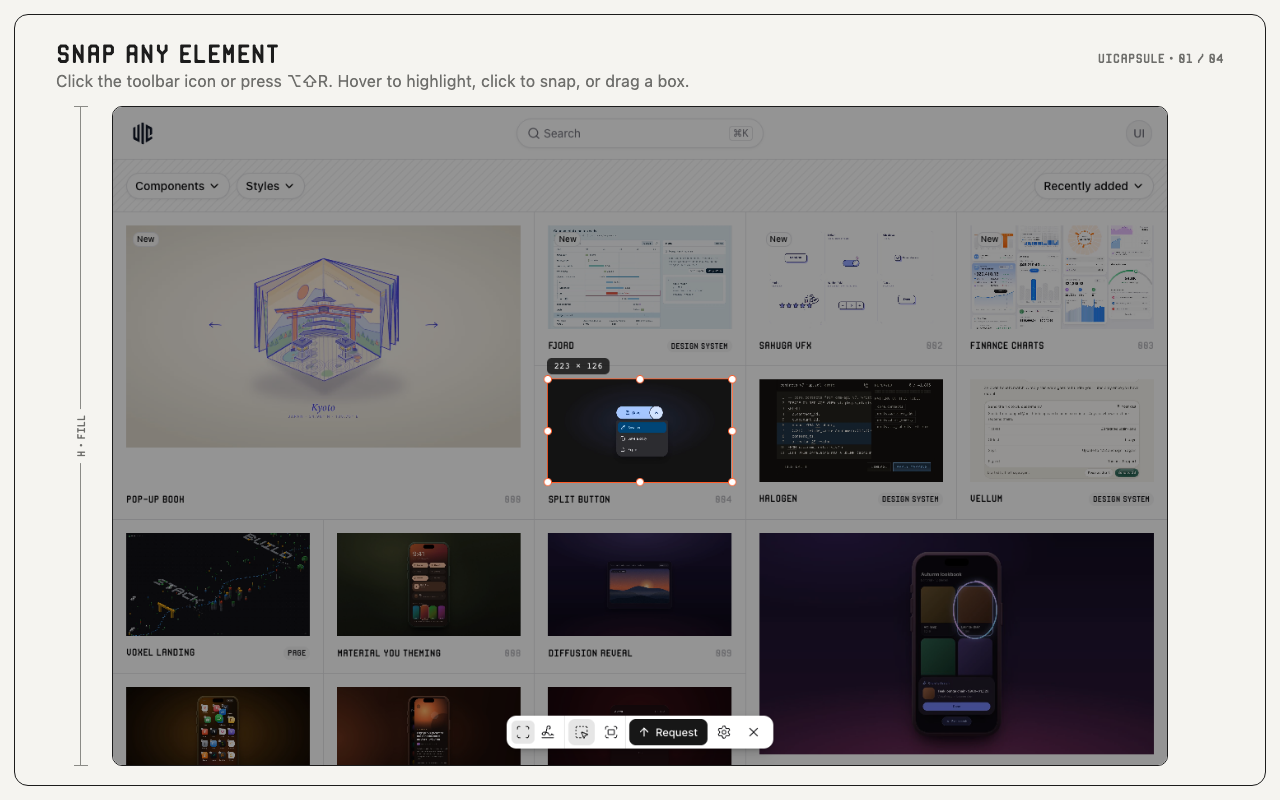
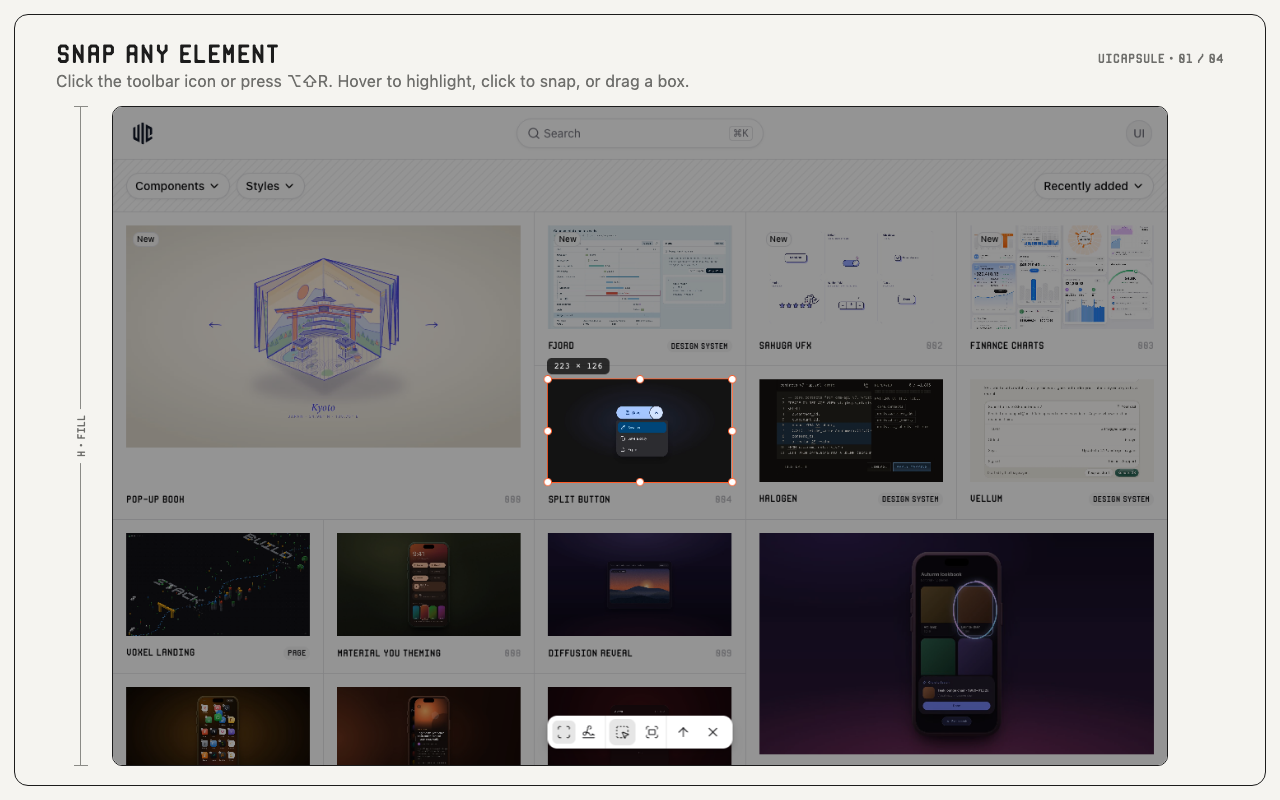
feat(extension): slimmer inspect bar
Drop Settings button and ⌘, shortcut (options page still via icon menu).
Request is an icon tool; remove BarAction. Store screenshots regenerated.

Changed region(s): [[0.375, 0.875, 0.625, 0.9375], [0.3125, 0.9062, 0.3438, 0.9375], [0.1562, 0.875, 0.1875, 0.9062]]

diff --git a/packages/inspector/src/styles.ts b/packages/inspector/src/styles.ts
@@ -73,7 +73,7 @@ export const inspectorCss = `
 .uic-tool svg { width: 18px; height: 18px; stroke-width: 1.5; }
 .uic-tool:hover { background: var(--uic-bar-hover); color: var(--uic-bar-fg-hover); }
 .uic-tool[aria-pressed="true"] { background: var(--uic-bar-pressed); color: var(--uic-bar-fg); }
-.uic-tool:focus-visible, .uic-switch-option:focus-visible, .uic-action:focus-visible { outline: 2px solid var(--uic-focus); outline-offset: -2px; }
+.uic-tool:focus-visible, .uic-switch-option:focus-visible { outline: 2px solid var(--uic-focus); outline-offset: -2px; }
 .uic-tool:disabled { opacity: 0.4; pointer-events: none; }
 
 .uic-switch { position: relative; display: flex; align-items: center; flex: none; gap: 2px; margin: 0 4px 0 0; padding: 2px; border: 0; border-radius: 8px; }
@@ -94,12 +94,8 @@ export const inspectorCss = `
 
 .uic-tip { position: absolute; bottom: calc(100% + 12px); left: 50%; translate: -50% 0; display: flex; align-items: center; gap: 8px; padding: 4px 4px 4px 10px; border-radius: 8px; background: #000; color: #fff; font-size: 12px; line-height: 20px; font-weight: 400; white-space: nowrap; opacity: 0; pointer-events: none; transition: opacity 150ms cubic-bezier(0.4, 0, 0.2, 1); }
 .uic-tip kbd { display: grid; place-items: center; min-width: 20px; height: 20px; padding: 0 5px; border-radius: 5px; background: rgb(255 255 255 / 0.18); color: rgb(255 255 255 / 0.8); font: inherit; font-size: 11px; }
-.uic-tool:hover .uic-tip, .uic-tool:focus-visible .uic-tip, .uic-switch-option:hover .uic-tip, .uic-switch-option:focus-visible .uic-tip, .uic-action:hover .uic-tip, .uic-action:focus-visible .uic-tip { opacity: 1; }
+.uic-tool:hover .uic-tip, .uic-tool:focus-visible .uic-tip, .uic-switch-option:hover .uic-tip, .uic-switch-option:focus-visible .uic-tip { opacity: 1; }
 
-.uic-bar .uic-action { position: relative; display: inline-flex; align-items: center; flex: none; gap: 6px; height: 32px; padding: 0 12px 0 10px; border-radius: 8px; background: var(--uic-bar-fg); color: var(--uic-bar-bg); font-size: 13px; font-weight: 500; line-height: 1; }
-.uic-bar .uic-action:hover { background: var(--uic-bar-fg-hover); }
-.uic-bar .uic-action:disabled { opacity: 0.55; pointer-events: none; }
-.uic-bar .uic-action svg { width: 16px; height: 16px; stroke-width: 2; }
 
 .uic-surface { position: absolute; inset: 0; overflow: hidden; pointer-events: none; user-select: none; touch-action: none; }
 .uic-surface[data-active] { pointer-events: auto; cursor: crosshair; }

diff --git a/apps/extension/src/lib/overlay/capture-bar.tsx b/apps/extension/src/lib/overlay/capture-bar.tsx
@@ -1,6 +1,5 @@
 import type { AnnotationTool } from "@repo/inspector/annotation-layer";
 import {
-  BarAction,
   BarDivider,
   InspectBar,
   ToolButton,
@@ -16,7 +15,6 @@ import {
   MoveUpRight,
   Pencil,
   Scan,
-  Settings,
   Signature,
   SquareDashedMousePointer,
   Type,
@@ -28,8 +26,6 @@ import { toolKey } from "./bar-keys";
 
 /** The bar's tools: one picks what to capture, the rest draw on top of it. */
 export type BarTool = "inspect" | AnnotationTool;
-
-const MAC = navigator.userAgent.includes("Mac");
 
 const ANNOTATE_TOOLS = [
   { icon: <MousePointer2 />, label: "Select", tool: "select" },
@@ -45,13 +41,12 @@ const GROUPS: SwitchOption<"annotate" | "capture">[] = [
 
 /**
  * The inspect bar the extension shows: a switch between the capture and annotate tools, that
- * group's tools, then Request, Settings and Close.
+ * group's tools, then Request and Close.
  */
 export const CaptureBar = ({
   onClose,
   onGroup,
   onRequest,
-  onSettings,
   onTool,
   onVisible,
   tool,
@@ -60,7 +55,6 @@ export const CaptureBar = ({
   onClose: () => void;
   onGroup: (group: "annotate" | "capture") => void;
   onRequest: () => void;
-  onSettings: () => void;
   onTool: (tool: BarTool) => void;
   onVisible: () => void;
   tool: BarTool;
@@ -125,21 +119,8 @@ export const CaptureBar = ({
         ]}
       />
       <BarDivider />
-      <ToolGroup label="Request and settings">
-        <BarAction
-          icon={<ArrowUp />}
-          shortcut="↵"
-          tip="File a component request"
-          onPress={onRequest}
-        >
-          Request
-        </BarAction>
-        <ToolButton
-          icon={<Settings />}
-          label="Settings"
-          shortcut={MAC ? "⌘," : "Ctrl+,"}
-          onPress={onSettings}
-        />
+      <ToolGroup label="Request">
+        <ToolButton icon={<ArrowUp />} label="Request" shortcut="↵" onPress={onRequest} />
         <ToolButton icon={<X />} label="Close" shortcut="Esc" onPress={onClose} />
       </ToolGroup>
     </InspectBar>

diff --git a/apps/extension/src/lib/overlay/app.tsx b/apps/extension/src/lib/overlay/app.tsx
@@ -104,10 +104,6 @@ const shotRect = (selection: Selection, marks: Element | null) => {
   return visiblePart(drawn ? unionRect(box, drawn) : box);
 };
 
-const openSettings = () => {
-  void browser.runtime.sendMessage({ type: "options" });
-};
-
 /**
  * The extension's overlay: the inspect bar over the page, then the request dialog over a capture
  * of the selection with its annotations, then a toast. Closing before filing keeps nothing.
@@ -271,11 +267,6 @@ export const OverlayApp = ({ onClose, start }: { onClose: () => void; start: Ove
         break;
       }
 
-      case "settings": {
-        openSettings();
-        break;
-      }
-
       case "visible": {
         setSelection({ kind: "visible" });
         chooseTool("inspect");
@@ -358,7 +349,6 @@ export const OverlayApp = ({ onClose, start }: { onClose: () => void; start: Ove
           onRequest={() => {
             void request();
           }}
-          onSettings={openSettings}
           onTool={chooseTool}
           onVisible={() => {
             setSelection({ kind: "visible" });

diff --git a/apps/extension/src/lib/messages.ts b/apps/extension/src/lib/messages.ts
@@ -30,12 +30,11 @@ const draftSchema = z.object({
 
 export type Draft = z.infer<typeof draftSchema>;
 
-/** What the popup and the in-page overlay ask of the background worker. */
+/** What the in-page overlay asks of the background worker. */
 export const workerRequestSchema = z.discriminatedUnion("type", [
   z.object({ rect: rectSchema, type: z.literal("capture"), viewport: viewportSchema }),
   z.object({ src: z.string(), type: z.literal("video") }),
   z.object({ draft: draftSchema, files: z.array(encodedSchema), type: z.literal("submit") }),
-  z.object({ type: z.literal("options") }),
 ]);
 
 export type WorkerRequest = z.infer<typeof workerRequestSchema>;

diff --git a/apps/extension/src/lib/overlay/bar-keys.test.ts b/apps/extension/src/lib/overlay/bar-keys.test.ts
@@ -16,11 +16,10 @@ test("letters pick tools and digits switch groups", () => {
   assert.deepEqual(press("v"), { kind: "visible" });
 });
 
-test("a modified letter is left to the page, except ⌘, for Settings", () => {
+test("a modified key is left to the page", () => {
   assert.equal(press("d", { metaKey: true }), null);
   assert.equal(press("t", { altKey: true }), null);
-  assert.deepEqual(press(",", { metaKey: true }), { kind: "settings" });
-  assert.deepEqual(press(",", { ctrlKey: true }), { kind: "settings" });
+  assert.equal(press(",", { metaKey: true }), null);
 });
 
 test("Enter requests and Escape steps back", () => {

diff --git a/packages/inspector/src/inspect-bar.tsx b/packages/inspector/src/inspect-bar.tsx
@@ -182,26 +182,3 @@ export const ToolStage = <T extends string>({
     </div>
   );
 };
-
-/** The bar's one labelled button: what the host does with the selection. */
-export const BarAction = ({
-  children,
-  disabled,
-  icon,
-  onPress,
-  shortcut,
-  tip,
-}: {
-  children: ReactNode;
-  disabled?: boolean;
-  icon?: ReactNode;
-  onPress: () => void;
-  shortcut?: string;
-  tip: string;
-}) => (
-  <button className="uic-action" disabled={disabled} type="button" onClick={onPress}>
-    {icon}
-    {children}
-    <Tip label={tip} shortcut={shortcut} />
-  </button>
-);

diff --git a/apps/extension/src/lib/overlay/bar-keys.ts b/apps/extension/src/lib/overlay/bar-keys.ts
@@ -4,7 +4,6 @@ import type { AnnotationTool } from "@repo/inspector/annotation-layer";
 export type BarCommand =
   | { kind: "back" }
   | { kind: "request" }
-  | { kind: "settings" }
   | { kind: "visible" }
   | { kind: "tool"; tool: AnnotationTool | "inspect" | "last-annotate" };
 
@@ -35,11 +34,7 @@ export const barCommand = (event: {
     return { kind: "back" } satisfies BarCommand;
   }
 
-  if (command) {
-    return key === "," ? ({ kind: "settings" } satisfies BarCommand) : null;
-  }
-
-  if (!plain) {
+  if (command || !plain) {
     return null;
   }
 

diff --git a/apps/extension/src/entrypoints/background.ts b/apps/extension/src/entrypoints/background.ts
@@ -90,12 +90,6 @@ const handle = async (request: WorkerRequest, windowId: number | undefined) => {
       return await submit(request);
     }
 
-    case "options": {
-      await browser.runtime.openOptionsPage();
-
-      return { ok: true };
-    }
-
     default: {
       return { ok: false, reason: FALLBACK };
     }
